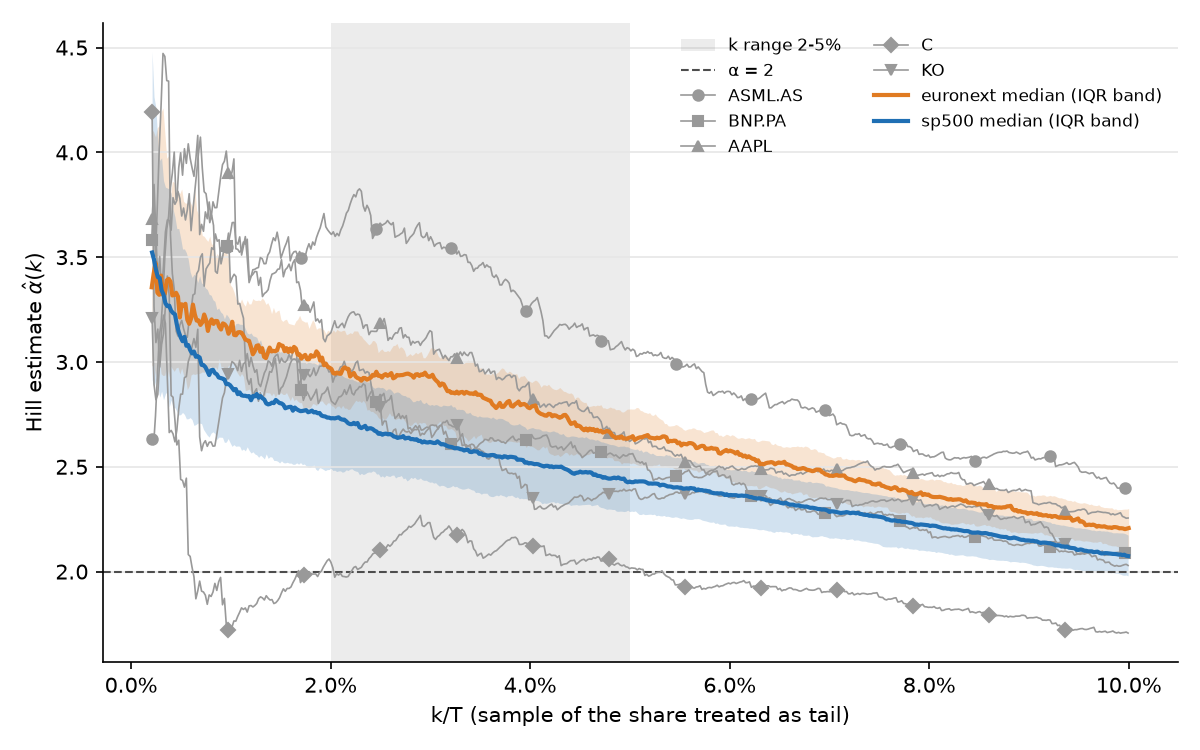
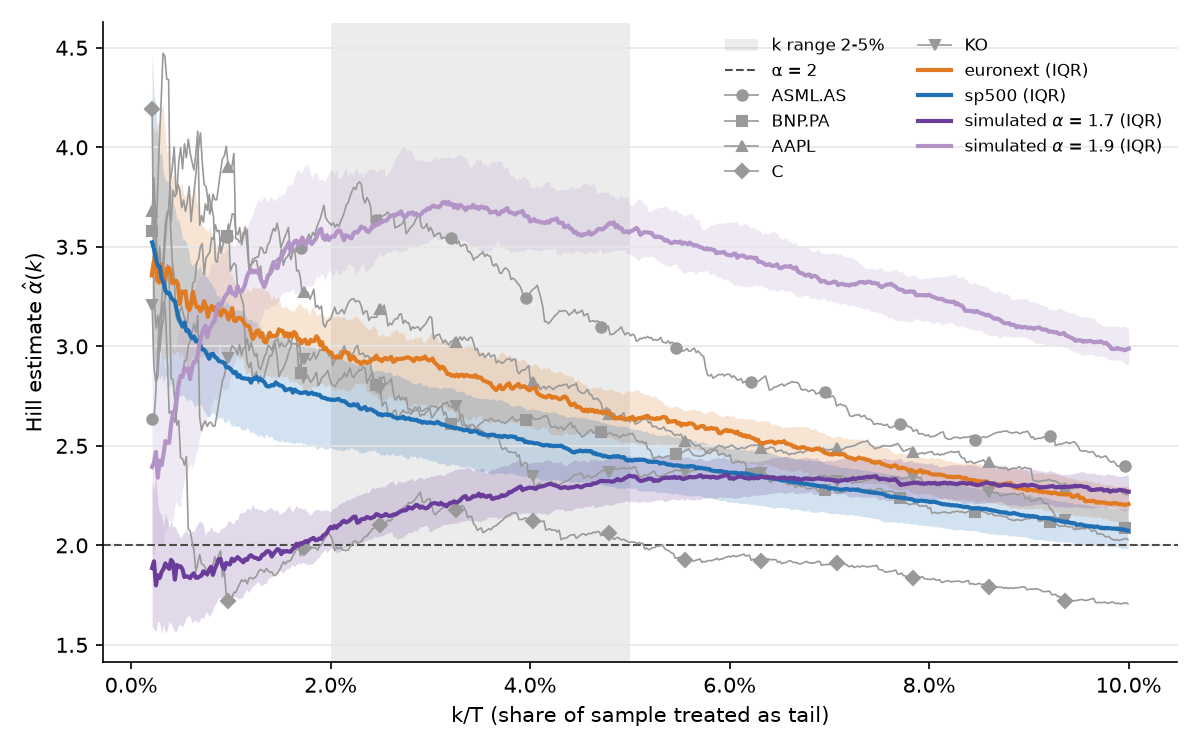
New version with simulated data for comparison in the hill_plot

diff --git a/scripts/run_analysis.py b/scripts/run_analysis.py
@@ -8,15 +8,15 @@ import jax.numpy as jnp
 from pathlib import Path
 import matplotlib.pyplot as plt
 
-from tail_risk.core import calc_hill_curve
+from tail_risk.core import calc_hill_curve, create_iqr_band, K_RATIO
 from tail_risk.plots import plot_hill_curves, plot_ecdf
+from tail_risk.simulation import simulate_data
 
 jax.config.update("jax_enable_x64", True)
 
 WORKING_DIR = Path(__file__).resolve().parents[1]
 DATA_PATH = WORKING_DIR / "data"
 FIG_PATH = WORKING_DIR / "figures"
-K_RATIO = 0.10
 K_OVER_T_SHARES = (0.02, 0.035, 0.05)
 STOCK_SELECTION = ["AAPL", "C", "KO", "ASML.AS", "BNP.PA"]
 
@@ -41,7 +41,7 @@ def select_stocks(
     for stock in relevant_stocks:
         idx = log_returns.columns.get_loc(stock)
         hill_curve = hill_curves[idx]
-       
+
         # if stock == "C":
         #     sorted_returns = log_returns[stock]
         #     sorted_returns = sorted_returns.sort_values()
@@ -68,13 +68,10 @@ if __name__ == "__main__":
         hill_curves, T, k_max = calculate_hill(log_returns)
         hill_curves = np.asarray(hill_curves)
 
-        quartiles = np.array([25, 50, 75])
-        quartiles = np.percentile(hill_curves, quartiles, axis=0)
-        # x-axis indexing to make different Ts per market consistent
-        sample_share = np.arange(1, k_max + 1) / T
-        market_results[market_name] = {"share": sample_share, "quartiles": quartiles}
+        iqr_band = create_iqr_band(hill_curves, k_max, T)
+        market_results[market_name] = iqr_band
 
-        stock_results = select_stocks(log_returns, hill_curves, sample_share)
+        stock_results = select_stocks(log_returns, hill_curves, iqr_band["share"])
         single_stocks.extend(stock_results)
 
         ecdf_results[market_name] = {}
@@ -94,8 +91,11 @@ if __name__ == "__main__":
                 }
             )
 
+    simulated_results = simulate_data(alphas=(1.7, 1.9))
+    total_results = market_results | simulated_results
+
     # Plot and save Hill plot
-    fig_hill = plot_hill_curves(market_results, single_stocks, k_band=(0.02, 0.05))
+    fig_hill = plot_hill_curves(total_results, single_stocks, k_band=(0.02, 0.05))
     fig_hill.savefig(FIG_PATH / "hill_curve.png", dpi=150)
     plt.close(fig_hill)
     # Plot and save ECDF

diff --git a/src/tail_risk/plots.py b/src/tail_risk/plots.py
@@ -5,7 +5,12 @@ import matplotlib.pyplot as plt
 from matplotlib.lines import Line2D
 from matplotlib.ticker import PercentFormatter
 
-MARKET_COLOURS = {"sp500": "#1f6fb4", "euronext": "#e07b22"}
+MARKET_COLOURS = {
+    "sp500": "#1f6fb4",
+    "euronext": "#e07b22",
+    r"simulated $\alpha$ = 1.7": "#6a3d9a",
+    r"simulated $\alpha$ = 1.9": "#b294c7",
+}
 STOCK_MARKERS = ["o", "s", "^", "D", "v"]
 
 K_LINESTYLES = {0.02: "dashed", 0.035: "solid", 0.05: "dotted"}
@@ -55,11 +60,11 @@ def plot_hill_curves(
             share, quarter, three_quart, color=colour, alpha=0.2, linewidth=0
         )
         ax.plot(
-            share, half, color=colour, linewidth=2, label=f"{market} median (IQR band)"
+            share, half, color=colour, linewidth=2, label=f"{market} (IQR)"
         )
 
     ax.xaxis.set_major_formatter(PercentFormatter(1.0))
-    ax.set_xlabel("k/T (sample of the share treated as tail)")
+    ax.set_xlabel("k/T (share of sample treated as tail)")
     ax.set_ylabel(r"Hill estimate $\hat{\alpha}(k)$")
     ax.grid(axis="y", color="0.9")
 

diff --git a/src/tail_risk/simulation.py b/src/tail_risk/simulation.py
@@ -1,0 +1,25 @@
+import numpy as np
+import jax.numpy as jnp
+from scipy.stats import levy_stable
+
+from tail_risk.core import calc_hill_curve, create_iqr_band, K_RATIO
+
+
+def simulate_data(
+    alphas: tuple[float] = (1.5, 1.7, 1.9), T: int = 5250, N: int = 50
+) -> dict:
+    k_max = int(K_RATIO * T)
+
+    results = {}
+    for alpha in alphas:
+        simulated_data = levy_stable.rvs(alpha, beta=0, size=(T, N), random_state=0)
+
+        losses = -jnp.asarray(simulated_data)
+        hill_curve = calc_hill_curve(losses, k_max)
+        hill_curve = np.asarray(hill_curve)
+        # simulations[alpha] = hill_curve
+
+        iqr_band = create_iqr_band(hill_curve, k_max, T)
+        results[r"simulated $\alpha$ = " + f"{alpha}"] = iqr_band
+
+    return results

diff --git a/src/tail_risk/core.py b/src/tail_risk/core.py
@@ -1,5 +1,8 @@
 import jax
+import numpy as np
 import jax.numpy as jnp
+
+K_RATIO = 0.10
 
 
 def hill_curve_1d(losses: jax.Array, k_max: int) -> jax.Array:
@@ -18,3 +21,13 @@ def hill_curve_1d(losses: jax.Array, k_max: int) -> jax.Array:
 def calc_hill_curve(losses: jax.Array, k_max: int) -> jax.Array:
     losses = jnp.atleast_2d(losses)
     return jax.vmap(hill_curve_1d, in_axes=(1, None))(losses, k_max)
+
+
+def create_iqr_band(hill_curves, k_max: int, T: int) -> dict:
+    quartiles = np.array([25, 50, 75])
+    quartiles = np.percentile(hill_curves, quartiles, axis=0)
+
+    # x-axis indexing to make different Ts per market consistent
+    sample_share = np.arange(1, k_max + 1) / T
+
+    return {"share": sample_share, "quartiles": quartiles}
